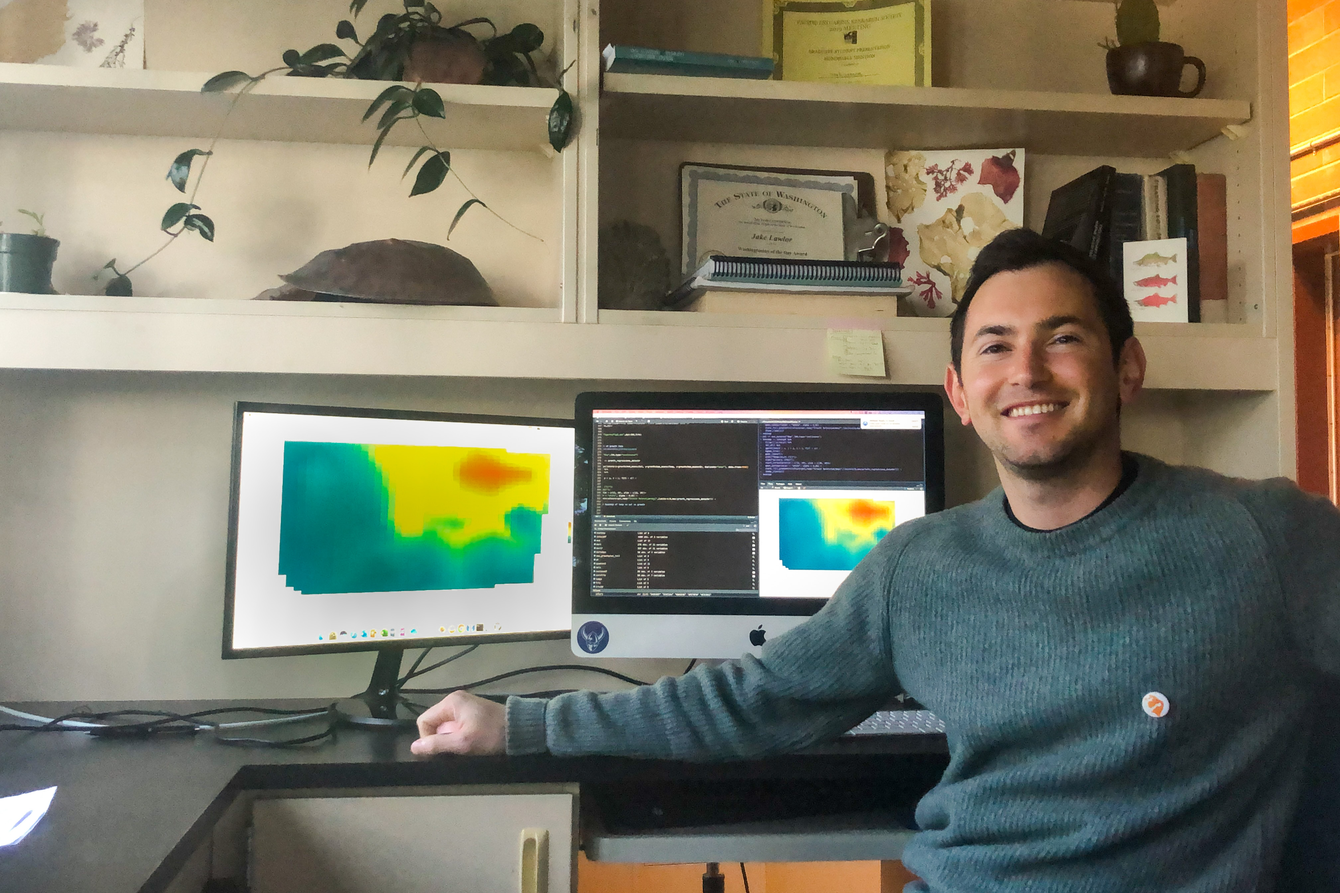
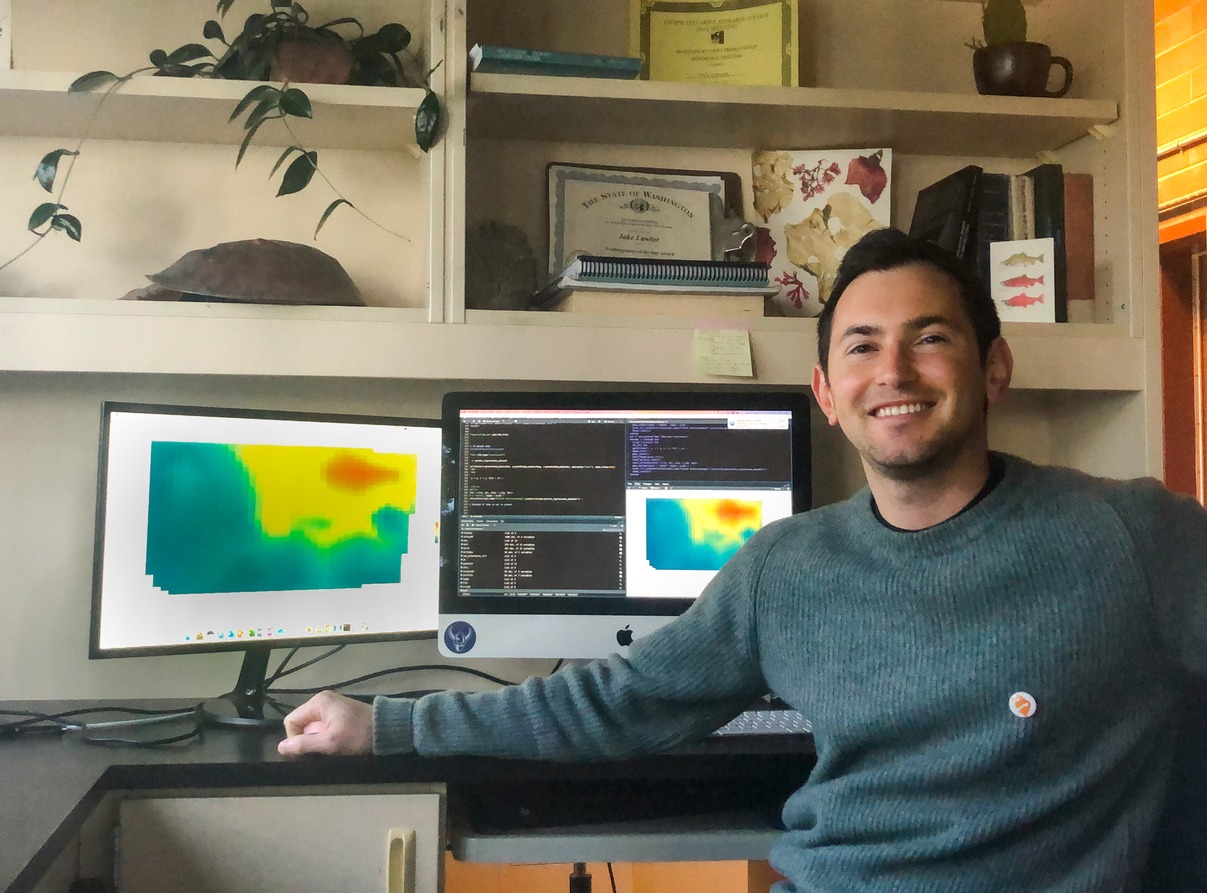
resize lab image

diff --git a/css/custom.min.css b/css/custom.min.css
@@ -1,1 +1,1 @@
-$font-heading:{{ $.Site.Params.heading_font | default "'Roboto', sans-serif" }}; $font-body:{{ $.Site.Params.body_font | default "'Roboto', sans-serif" }}; body{font-family:$font-body}h1,h2,h3,h4,h5,h6{font-family:$font-heading}body{font-family:montserrat,sans-serif;font-weight:400}h1,h2,h3,h5,h6{font-family:montserrat;font-weight:800}h2{font-size:26px;font-weight:800}p{font-family:montserrat,sans-serif;line-height:22px;font-size:16px;font-weight:200}body{background:#fff}ul{padding-left:0}ul li{list-style:none}a:hover{text-decoration:none;color:#444}a{font-weight:500;color:#02bdd5}hr{border:none;border-top:1px solid #ccc;margin:3em 0;width:100%}.slick-slide:focus{outline:0}.section-heading{text-align:center;margin-bottom:35px}.section-heading p{font-size:20px;font-weight:500;color:#727272;line-height:20px;font-variant:all-small-caps}.title{font-size:30px;line-height:1.1;font-weight:200;color:#333;text-transform:none;margin-bottom:15px}.subtitle{font-size:24px;font-weight:600;margin-bottom:.3em;margin-top:.4em;text-transform:none}.subtitle-des{color:#727272;font-size:14px;margin-bottom:1.25em;font-weight:300}.pages{padding:60px 0 40px}.moduler{padding:140px 0}.social-share li{display:inline-block;margin:3px 1px}.social-share a{font-size:20px;color:#fff;background:#02bdd5;padding:4px 10px;display:inline-block}.fancybox-close{background:url(../images/icons/close.png)no-repeat;height:50px;right:0;top:0;width:50px}.fancybox-next span{background:url(../images/icons/right.png)no-repeat 50% #009ee3;height:50px;width:50px;right:0}.fancybox-prev span{background:url(../images/icons/left.png)no-repeat 50% #009ee3;height:50px;width:50px;left:0}.fancybox-title{padding:15px 8px}.fancybox-title h3{font-size:15px;margin:0}.global-page-header{background-attachment:fixed;background-size:cover;padding:105px 0 20px;position:relative;background:#02bdd5;color:#fff}.global-page-header h2{font-size:42px;font-weight:100;color:#fff;text-transform:none}.global-page-header .breadcrumb{background:0 0;font-size:16px;padding:8px 0;display:block}.global-page-header .breadcrumb .active,.global-page-header .breadcrumb li a{color:#fff}.global-page-header .block{position:relative;z-index:9;text-align:center}.works-fit{padding:40px 0}.works-fit figure .buttons{left:14%}.about-page .container{max-width:75%}.about-page{padding:40px 0}.about-page .block h3{margin-top:0}.about-page .block p{color:#727272;font-weight:300;font-size:.9em;line-height:1.5}.about-page .block p{color:#727272;font-weight:300;font-size:.95em}.top-bar{position:fixed;top:0;width:100%;background:#fff;color:#fff;transition:all .2s ease-out 0s;padding:15px 0;box-shadow:0 0 3px 0 rgba(0,0,0,.1);border-bottom:1px solid #dedede;z-index:10}.top-bar.animated-header{padding:20px 0;background:#fff;box-shadow:none}.navbar{border:0;border-radius:0;margin-bottom:0;padding:0}.navbar.bg-light{background:#fff!important}.navbar .nav-item .nav-link{color:#444!important;font-size:14px;font-weight:800;transition:.3s all;text-transform:none;padding:5px 15px;display:block}.navbar .nav-item .nav-link:hover{color:#02bdd5!important}.navbar .nav-item:last-child .nav-link{padding-right:0}.navbar .nav-icon .nav-link{font-family:FontAwesome;font-style:normal;color:#444!important;font-size:14px;font-weight:500;transition:.3s all;padding:5px 15px;display:block}.navbar .nav-icon li a{font-size:22px;color:#444}.navbar .nav-icon .nav-link:hover{color:#02bdd5!important}.navbar .site-title{font-weight:200;color:#02bdd5;font-family:Montserrat;font-size:1.5em}.navbar .site-title:hover{color:#444!important}.dropdown-menu{background:#222;border:0;border-radius:0;padding:15px;box-shadow:none;display:block;opacity:0;z-index:1;visibility:hidden;transform:scale(0.8);transition:visibility 500ms,opacity 500ms,transform 500ms cubic-bezier(0.43,0.26,0.11,0.99)}@media(max-width:991px){.dropdown-menu{display:none;opacity:unset;visibility:unset;transform:scale(1)}}.dropdown-item{color:#fff;display:block;font-size:14px;font-weight:500;line-height:normal;text-decoration:none;padding:8px 0;transition:.3s all}.dropdown-item:not(:last-child){border-bottom:1px solid rgba(0,0,0,.1)}.dropdown-item:hover{color:#02bdd5!important;background:0 0}.dropdown:hover .dropdown-menu{opacity:1;visibility:visible;transform:scale(1)}#hero-area{background-repeat:no-repeat;background-position:50%;background-size:cover;background-attachment:fixed;padding:230px 0;color:#fff;box-shadow:0 0 8px rgba(0,0,0,.3);position:relative}#hero-area:before{content:'';z-index:9;background:rgba(255,255,255,.78);position:absolute;top:0;left:0;right:0;bottom:0}#hero-area .block{position:relative;z-index:9}#hero-area h1{font-family:montserrat;font-size:42px;line-height:46px;color:#333;font-weight:400;margin-bottom:15px;text-transform:none}#hero-area h2{font-size:24px;font-weight:200;margin-bottom:38px;line-height:28px;text-transform:lowercase;color:#666;font-family:raleway;margin-top:10px}#hero-area .btn{background:#414141;border:none;color:#fff;padding:20px 35px;margin-top:30px;font-size:16px;font-size:13px;line-height:1em;text-transform:none;letter-spacing:normal;border-radius:0}#call-to-action{background:#f18e80;background-size:cover;background-attachment:fixed;padding:80px 0;text-align:center;position:relative;color:#fff}#call-to-action .block{position:relative;z-index:9;color:#fff}#call-to-action .block h2{margin-bottom:15px;color:#fff;font-weight:200}#call-to-action .block p{font-size:15px;font-weight:300;font-family:roboto,sans-serif;margin-top:20px}#call-to-action .block .btn-contact{background:#fff;border:2px solid #fff;color:#02bdd5;padding:15px 34px;margin-top:20px;font-size:12px;letter-spacing:2px;text-transform:none;border-radius:0;transition:all linear .2s}#call-to-action .block .btn-contact i{margin-right:10px}#call-to-action .block .btn-contact:hover{color:#fff;background:#02bdd5}#about{padding:110px 0}#about .block{padding:0}#about .block h2{font-size:24px;font-weight:600;margin-bottom:30px;text-transform:none}#about .block p{color:#727272;font-size:16px;line-height:28px;margin-bottom:35px;font-weight:200}#about .block img{max-width:100%}img{max-width:100%}.about-feature .block{color:#fff;padding:75px 55px;float:left}.about-feature .block p{font-weight:300}.about-feature .about-feature-1{background:#02bdd5;width:100%;height:100%}.about-feature .about-feature-2{background:#00b0c7;height:100%;width:100%}.about-feature .about-feature-3{background:#00a6bb;height:100%;width:100%}.works{padding:50px 0;background:#fcfcfc}.works .block{position:relative;z-index:99}.works .block:hover .img-overly .overly{opacity:1}.works .block h4{padding:20px 15px;margin-top:0;color:#666}.works .block .img-overly{position:relative;background:rgba(0,0,0,.85)}.works .block .img-overly img{border-radius:0}.works .block .img-overly .overly{background:rgba(57,181,74,.9);position:absolute;top:0;right:0;left:0;bottom:0;opacity:0;transition:.3s all}.works .block .img-overly .overly a{position:absolute;top:45%;left:22%}.works .block .img-overly .overly a i{font-size:30px;color:#fff}figure{background:#fff;margin-bottom:45px;box-shadow:0 2px 5px 0 rgba(0,0,0,.04),0 2px 10px 0 rgba(0,0,0,.06)}figure .img-wrapper{position:relative;overflow:hidden}figure img{transform:scale3d(1,1,1);transition:transform 400ms}figure:hover img{transform:scale3d(1.2,1.2,1)}figure:hover .overlay{opacity:1}figure:hover .overlay .buttons a{transform:scale3d(1,1,1)}figure .overlay{position:absolute;top:0;left:0;right:0;bottom:0;padding:10px;text-align:center;background:rgba(0,0,0,.7);opacity:0;transition:opacity 400ms}figure .overlay a{display:inline-block;color:#fff;padding:10px 23px;line-height:1;border:1px solid #fff;border-radius:0;margin:4px;transform:scale3d(0,0,0);transition:all 400ms}figure .overlay a:hover{text-decoration:none}figure .overlay:hover a{transform:scale3d(1,1,1)}figure .buttons{margin-top:40%;text-align:center;transform:translateY(-50%);display:inline-block}figure .buttons a:hover{background:#02bdd5;border-color:#02bdd5}figure .buttons a:focus{text-decoration:none}figure figcaption{padding:20px 25px;margin-top:0;color:#666}figure figcaption h4{margin:0}figure figcaption h4 a{color:#02bdd5}figure figcaption p{font-size:14px;margin-bottom:0;margin-top:5px}#feature{padding:80px 0}#feature .media{margin:0 0 70px}#feature .media .media-left{padding-right:25px}#feature h3{color:#222;font-size:18px;text-transform:none;text-align:center;margin-bottom:20px;margin:0 0 15px;font-weight:400}#feature p{line-height:25px;font-size:14px;color:#777}#feature .icon{text-decoration:none;color:#fff;background-color:#02bdd5;height:100px;text-align:center;width:100px;font-size:50px;line-height:100px;overflow:hidden;border-radius:50%;-webkit-border-radius:50%;-moz-border-radius:50%;-ms-border-radius:50%;-o-border-radius:50%;text-shadow:#00a4ba 1px 1px,#00a4ba 2px 2px,#00a4ba 3px 3px,#00a4ba 4px 4px,#00a4ba 5px 5px,#00a4ba 6px 6px,#00a4ba 7px 7px,#00a4ba 8px 8px,#00a4ba 9px 9px,#00a4ba 10px 10px,#00a4ba 11px 11px,#00a4ba 12px 12px,#00a4ba 13px 13px,#00a4ba 14px 14px,#00a4ba 15px 15px,#00a4ba 16px 16px,#00a4ba 17px 17px,#00a4ba 18px 18px,#00a4ba 19px 19px,#00a4ba 20px 20px,#00a4ba 21px 21px,#00a4ba 22px 22px,#00a4ba 23px 23px,#00a4ba 24px 24px,#00a4ba 25px 25px,#00a4ba 26px 26px,#00a4ba 27px 27px,#00a4ba 28px 28px,#00a4ba 29px 29px,#00a4ba 30px 30px,#00a4ba 31px 31px,#00a4ba 32px 32px,#00a4ba 33px 33px,#00a4ba 34px 34px,#00a4ba 35px 35px,#00a4ba 36px 36px,#00a4ba 37px 37px,#00a4ba 38px 38px,#00a4ba 39px 39px,#00a4ba 40px 40px,#00a4ba 41px 41px,#00a4ba 42px 42px,#00a4ba 43px 43px,#00a4ba 44px 44px,#00a4ba 45px 45px,#00a4ba 46px 46px,#00a4ba 47px 47px,#00a4ba 48px 48px,#00a4ba 49px 49px,#00a4ba 50px 50px,#00a4ba 51px 51px,#00a4ba 52px 52px,#00a4ba 53px 53px,#00a4ba 54px 54px,#00a4ba 55px 55px,#00a4ba 56px 56px,#00a4ba 57px 57px,#00a4ba 58px 58px,#00a4ba 59px 59px,#00a4ba 60px 60px,#00a4ba 61px 61px,#00a4ba 62px 62px,#00a4ba 63px 63px,#00a4ba 64px 64px,#00a4ba 65px 65px,#00a4ba 66px 66px,#00a4ba 67px 67px,#00a4ba 68px 68px,#00a4ba 69px 69px,#00a4ba 70px 70px,#00a4ba 71px 71px,#00a4ba 72px 72px,#00a4ba 73px 73px,#00a4ba 74px 74px,#00a4ba 75px 75px,#00a4ba 76px 76px,#00a4ba 77px 77px,#00a4ba 78px 78px,#00a4ba 79px 79px,#00a4ba 80px 80px,#00a4ba 81px 81px,#00a4ba 82px 82px,#00a4ba 83px 83px,#00a4ba 84px 84px,#00a4ba 85px 85px,#00a4ba 86px 86px,#00a4ba 87px 87px,#00a4ba 88px 88px,#00a4ba 89px 89px,#00a4ba 90px 90px,#00a4ba 91px 91px,#00a4ba 92px 92px,#00a4ba 93px 93px,#00a4ba 94px 94px,#00a4ba 95px 95px,#00a4ba 96px 96px,#00a4ba 97px 97px,#00a4ba 98px 98px,#00a4ba 99px 99px,#00a4ba 100px 100px}.wrapper_404 h1{font-size:200px;color:#02bdd5;line-height:1}.wrapper_404 h2{font-size:50px;margin-top:0}.wrapper_404 .btn-home{background:#414141;border:none;color:#fff;padding:20px 35px;margin-top:10px;font-size:16px;font-size:13px;line-height:1em;text-transform:none;letter-spacing:normal;border-radius:0;transition:all linear .2s}#blog-full-width{padding:40px 0 80px}article{padding:30px 0}.blog-content h2{font-family:roboto,sans-serif}.blog-content h2 a{color:#444;font-weight:400;font-size:30px}.blog-content .blog-meta{color:#9a9a9a;font-weight:300;margin-bottom:25px}.blog-content .blog-meta span:after{content:'/';padding:0 3px 0 6px}.blog-content .blog-meta a{color:#acacac}.blog-content .blog-meta p{margin-top:20px}.blog-content .btn-details{color:#02bdd5;padding:0;background:#02bdd5;color:#fff;padding:8px 18px;border-radius:0;margin-top:15px;border:1px solid #fff;box-shadow:0 0 0 1px #02bdd5}.blog-post-image{margin-top:30px;margin-bottom:20px}.sidebar{padding-top:60px}.sidebar .widget{margin-bottom:40px;padding:15px;border:1px solid #dedede}.sidebar .widget h3{margin-top:8px}.sidebar .search input.form-control{border-right:0;border-radius:0;box-shadow:inset 0 0 0 rgba(0,0,0,.075)}.sidebar .search button{border-left:0}.sidebar .search button:hover{background:0 0}.sidebar .author .author-img img{width:90px;border-radius:100%;margin-top:-40px;border:3px solid #fff}.sidebar .author .author-bio p{font-size:14px;color:#888}.sidebar .categories ul li{border-bottom:1px solid #f0f0f0;padding:10px 0;list-style:none}.sidebar .categories ul li span.badge{float:right;background:0 0;color:#444;border:1px solid #dedede;border-radius:0}.sidebar .categories ul li a{color:#555}.sidebar .categories ul li:last-child{border-bottom:none}.sidebar .recent-post ul li{margin:20px 0}.sidebar .recent-post ul li a{color:#555;font-size:15px}.sidebar .recent-post ul li a:hover{color:#02bdd5}.sidebar .recent-post time{font-weight:300;color:#999;font-size:12px}#funding{padding:0 0 60px}.funding-logo-slider{display:flex;justify-content:center}#funding .funding-logo-box{width:210px;border:solid 8px #fff;height:90px;background-color:#eae9ec;display:flex;padding:5px 10px;align-items:center}#funding .subtitle-des{color:#727272;font-size:14px;margin-bottom:.25em;font-weight:300}#contact .contactinfo-logo-box{width:300px;border:solid 8px #fff;height:175px;background-color:#f7f7f7;padding:5px 10px;align-items:center;text-align:center}.contactinfo-logo-slider{display:flex;justify-content:center}#contact .subtitle-des{color:#727272;font-size:14px;margin-bottom:.25em;font-weight:300}#contact i{font-size:45px;color:#02bdd5}#contact .contactinfo{text-align:center;background:#f7f7f7;padding:20px 0 40px;margin-bottom:20px}.contactinfo-logo-slider h5{font-size:15px;line-height:1.4}.slick-initialized .slick-slide{display:flex}.img-fluid.mx-2{padding-bottom:0}.ml-2,.mx-2{margin-right:0!important;margin-left:0!important}#contact-section{padding:90px 0}#contact-section .contact-form{margin-top:42px}#contact-section .contact-form .btn-send{color:#fff;outline:none;background:#02bdd5;transition:all linear .2s;border-color:#02bdd5;border-radius:0}#contact-section input{display:block;height:40px;padding:6px 12px;font-size:13px;line-height:1.428571429;background-color:#fff;background-image:none;border:1px solid #ccc;border-radius:4px;box-shadow:inset 0 1px 1px rgba(0,0,0,.075);transition:border-color ease-in-out .15s,box-shadow ease-in-out .15s;border-radius:1px;border:1px solid rgba(111,121,122,.3);box-shadow:none;-webkit-box-shadow:none}#contact-section textarea{display:block;border-radius:0;width:100%;padding:6px 12px;font-size:14px;line-height:1.42857143;color:#555;background-color:#fff;background-image:none;border:1px solid #ccc;box-shadow:none;transition:border-color ease-in-out .15s,box-shadow ease-in-out .15s}#contact-section .address,#contact-section .email,#contact-section .phone{text-align:center;background:#f7f7f7;padding:20px 0 40px;margin-bottom:20px}#contact-section .address i,#contact-section .email i,#contact-section .phone i{font-size:45px;color:#02bdd5}#contact-section .address h5,#contact-section .email h5,#contact-section .phone h5{font-size:16px;line-height:1.4}#contact-section .address-details{padding-top:70px}#map-canvas{width:100%;height:350px;background-color:#ccc}.error{padding:10px;color:#d8000c;border-radius:2px;font-size:14px;background-color:#ffbaba}.success{background-color:#6cb670;border-radius:2px;color:#fff;font-size:14px;padding:10px}#error,#success{display:none;margin-bottom:10px}.gallery{padding:100px}.gallery figure .buttons{left:40%}.portfolio-meta span{margin:5px 10px;font-weight:300}.portfolio-meta span a{color:#fff}.single-post{padding:80px 0 20px}.single-post .post-content{padding:40px 0}.post-content blockquote p{padding:10px 20px;margin:0 0 20px;font-size:17.5px;border-:5px solid #eee}.single-post .post-content ol li,.single-post .post-content ul li{color:#666}.single-post .media{border:1px solid #dedede;padding:30px 20px}.single-post .media .media-body a{color:#02bdd5;font-size:12px}.single-post .media .media{border:none}.single-post .comments{margin-top:40px}.single-post .post-comment{margin-top:40px}.single-post .post-comment h3{margin-bottom:15px}.single-post .post-comment .form-control{box-shadow:none;border-radius:0}.single-post .post-comment .btn-send{background:#02bdd5;color:#fff;border-radius:0}.work-single{padding:100px 0 20px}.work-single h3{font-size:30px;margin-bottom:25px}.work-single-image{margin-bottom:35px}.work-single-content p{margin-bottom:30px;font-size:16px}.work-single-content a{color:#02bdd5;font-size:16px;line-height:28px;margin-bottom:35px;font-weight:bolder}.work-single-content a:hover{text-decoration:none;color:#0190b5}.work-single blockquote{margin-bottom:30px;padding:30px 25px;background:#eae9ec;color:#848484}.work-single pre{display:block;font-size:87.5%;color:#212529;background-color:#eae9ec}.work-single pre code{font-size:87.5%;color:#212529;background-color:#eae9ec}.work-single blockquote p{margin-bottom:0}.work-single p code{color:#212529;background-color:#eae9ec}.work-single-sidebar{background:#eae9ec;position:-webkit-sticky;position:sticky;top:100px;padding:30px 25px}.work-single-sidebar h5{margin-bottom:8px}.work-single-sidebar h6{margin-bottom:20px}.btn-work{color:#fff;background:#02bdd5;border-radius:0}#product-showcase-banner{padding-top:160px}#product-showcase-banner .block{padding:20px 0 20px 50px}#product-showcase-banner .block h2{font-size:40px;color:#02bdd5;margin-bottom:20px;margin-top:0}#product-showcase-banner .block p{color:#666;line-height:25px}#product-showcase-banner .block .buttons{margin-top:25px}#product-showcase-banner .block .buttons .btn{color:#fff;border:none;padding:12px 40px;transition:.2s all;letter-spacing:2px;font-size:15px}#product-showcase-banner .block .buttons .btn-demo{background:#5abd4f;margin-right:8px;border-bottom:3px solid #0190b5}#product-showcase-banner .block .buttons .btn-demo:hover{background:#0190b5}#product-showcase-banner .block .buttons .btn-buy{background:#00aeda;border-bottom:3px solid #0190b5}#product-showcase-banner .block .buttons .btn-buy:hover{background:#0190b5}#product-showcase-banner .block .buttons .btn-buy span{margin-right:8px;font-weight:700}#product-description{padding-top:80px}#product-description .block{height:400px;overflow:hidden;margin-top:35px;border-bottom:1px solid #dedede;padding-top:30px;position:relative;transform:translateZ(0);-webkit-transform:translateZ(0)}#product-description .block:hover img{transform:translateY(20px)}#product-description .block img{position:absolute;top:10px;left:0;transform:translateY(60px);transition:transform .35s cubic-bezier(0.645,0.045,0.355,1)}#product-description .block .content{width:60%;padding-top:70px}#product-description .block .content h3{font-size:32px;color:#5c5c5c}#product-description .block .content p{color:#787f8c;line-height:25px}#related-items{padding:60px 0 110px}#related-items .title{border-bottom:1px solid #dedede;padding:10px 0;margin:5px 15px 30px;text-align:left;color:#777}#related-items .product-details{margin-bottom:0}#related-items .block{position:relative;background:#fff;margin-bottom:45px;box-shadow:0 0 1px rgba(0,0,0,.14)}#related-items .block:hover .img-overly .overly{opacity:1}#related-items .block h4{padding:20px 15px;margin-top:0;color:#666}#related-items .block h4 span{float:right;color:#02bdd5}#related-items .block .img-overly{position:relative;background:rgba(0,0,0,.85)}#related-items .block .img-overly img{border-radius:0}#related-items .block .img-overly .overly{background:rgba(57,181,74,.9);position:absolute;top:0;right:0;left:0;bottom:0;opacity:0;transition:.3s all}#related-items .block .img-overly .overly a{position:absolute;top:45%;left:45%}#related-items .block .img-overly .overly a i{font-size:30px;color:#fff}.research-page .row{margin:0}.research-page .container{max-width:75%}.teaching-page .container{max-width:75%}.teaching-page .row{margin:0}.teaching-page .subtitle{font-family:raleway;font-weight:400;font-size:2em}.teaching-page .subtitle-des{color:#727272;font-size:16px;margin-bottom:1.25em;font-weight:200}.teaching-page .teaching-parts .block{text-align:left}.teaching-page .teaching-parts .block p{padding:1px;font-size:15px;color:#777;line-height:1.7;font-weight:400}.teaching-page .teaching-parts .block i{color:#02bdd5}.teaching-page .teaching-parts .block b{color:#02bdd5;font-weight:bolder}.teaching-page .block h4{font-family:Montserrat;font-weight:200;color:#02bdd5;font-size:1.6em}.teaching-page hr{border:none;border-top:2px solid #ccc;margin:3em 0;width:100%}.teaching-page img{padding-right:0;padding-left:0}.research-page .subtitle{font-family:Montserrat;font-weight:200;color:#02bdd5;font-size:1.6em}#team{margin:50px 0}.team-member{margin-top:30px}.team-member:hover .team-img img{opacity:.8}.team-member .team-img{position:relative;margin-bottom:20px}.team-member .team-img .team-pic{width:100%}.team-member .team_designation{font-size:13px}.team-member h3{color:#02bdd5;margin-bottom:0;font-size:20px}.team-member p{font-size:14px}.team-member .social-icons a{background:#02bdd5;color:#fff;padding:4px 8px;display:inline-block;font-size:15px}.team-member .social-icons .facebook{padding:4px 12px}#footer{background:#fff;padding:25px 0;color:#555}#footer .copyright{font-size:13px;margin-bottom:0}#footer .copyright a{color:#02bdd5}#footer .social{text-align:right;margin-bottom:0}#footer .social li{display:inline-block;margin-right:15px}#footer .social li a{font-size:22px;color:#02bdd5}.cd-headline.slide .cd-words-wrapper{font-family:raleway;font-weight:600;color:#02bdd5;text-transform:lowercase;font-size:.95em}ul.social-icons{height:auto;overflow:hidden;list-style:none!important;margin-bottom:10px}ul.social-icons li{float:none;display:inline-block;height:36px}#copyright a:hover,#copyright nav .menu li a:hover{color:#e4e4e4!important}#copyright a{text-decoration:none}#copyright a:hover{text-decoration:none}.widget li{display:inline-block;list-style-type:none;width:auto;border:2px solid #bbb;padding:.6em 1em;font-size:12px;line-height:1em;margin-bottom:0}
+$font-heading:{{ $.Site.Params.heading_font | default "'Roboto', sans-serif" }}; $font-body:{{ $.Site.Params.body_font | default "'Roboto', sans-serif" }}; body{font-family:$font-body}h1,h2,h3,h4,h5,h6{font-family:$font-heading}body{font-family:montserrat,sans-serif;font-weight:400}h1,h2,h3,h5,h6{font-family:montserrat;font-weight:800}h2{font-size:26px;font-weight:800}p{font-family:montserrat,sans-serif;line-height:22px;font-size:15px;font-weight:200}body{background:#fff}ul{padding-left:0}ul li{list-style:none}a:hover{text-decoration:none;color:#444}a{font-weight:500;color:#02bdd5}hr{border:none;border-top:1px solid #ccc;margin:3em 0;width:100%}.slick-slide:focus{outline:0}.section-heading{text-align:center;margin-bottom:35px}.section-heading p{font-size:20px;font-weight:500;color:#727272;line-height:20px;font-variant:all-small-caps}.title{font-size:30px;line-height:1.1;font-weight:200;color:#333;text-transform:none;margin-bottom:15px}.subtitle{font-size:24px;font-weight:600;margin-bottom:.3em;margin-top:.4em;text-transform:none}.subtitle-des{color:#727272;font-size:14px;margin-bottom:1.25em;font-weight:300}.pages{padding:60px 0 40px}.moduler{padding:140px 0}.social-share li{display:inline-block;margin:3px 1px}.social-share a{font-size:20px;color:#fff;background:#02bdd5;padding:4px 10px;display:inline-block}.fancybox-close{background:url(../images/icons/close.png)no-repeat;height:50px;right:0;top:0;width:50px}.fancybox-next span{background:url(../images/icons/right.png)no-repeat 50% #009ee3;height:50px;width:50px;right:0}.fancybox-prev span{background:url(../images/icons/left.png)no-repeat 50% #009ee3;height:50px;width:50px;left:0}.fancybox-title{padding:15px 8px}.fancybox-title h3{font-size:15px;margin:0}.global-page-header{background-attachment:fixed;background-size:cover;padding:105px 0 20px;position:relative;background:#02bdd5;color:#fff}.global-page-header h2{font-size:42px;font-weight:100;color:#fff;text-transform:none}.global-page-header .breadcrumb{background:0 0;font-size:16px;padding:8px 0;display:block}.global-page-header .breadcrumb .active,.global-page-header .breadcrumb li a{color:#fff}.global-page-header .block{position:relative;z-index:9;text-align:center}.works-fit{padding:40px 0}.works-fit figure .buttons{left:14%}.about-page .container{max-width:75%}.about-page{padding:40px 0}.about-page .block h3{margin-top:0}.about-page .block p{color:#727272;font-weight:300;font-size:15px;line-height:1.5}.top-bar{position:fixed;top:0;width:100%;background:#fff;color:#fff;transition:all .2s ease-out 0s;padding:15px 0;box-shadow:0 0 3px 0 rgba(0,0,0,.1);border-bottom:1px solid #dedede;z-index:10}.top-bar.animated-header{padding:20px 0;background:#fff;box-shadow:none}.navbar{border:0;border-radius:0;margin-bottom:0;padding:0}.navbar.bg-light{background:#fff!important}.navbar .nav-item .nav-link{color:#444!important;font-size:14px;font-weight:800;transition:.3s all;text-transform:none;padding:5px 15px;display:block}.navbar .nav-item .nav-link:hover{color:#02bdd5!important}.navbar .nav-item:last-child .nav-link{padding-right:0}.navbar .nav-icon .nav-link{font-family:FontAwesome;font-style:normal;color:#444!important;font-size:14px;font-weight:500;transition:.3s all;padding:5px 15px;display:block}.navbar .nav-icon li a{font-size:22px;color:#444}.navbar .nav-icon .nav-link:hover{color:#02bdd5!important}.navbar .site-title{font-weight:200;color:#02bdd5;font-family:Montserrat;font-size:1.5em}.navbar .site-title:hover{color:#444!important}.dropdown-menu{background:#222;border:0;border-radius:0;padding:15px;box-shadow:none;display:block;opacity:0;z-index:1;visibility:hidden;transform:scale(0.8);transition:visibility 500ms,opacity 500ms,transform 500ms cubic-bezier(0.43,0.26,0.11,0.99)}@media(max-width:991px){.dropdown-menu{display:none;opacity:unset;visibility:unset;transform:scale(1)}}.dropdown-item{color:#fff;display:block;font-size:14px;font-weight:500;line-height:normal;text-decoration:none;padding:8px 0;transition:.3s all}.dropdown-item:not(:last-child){border-bottom:1px solid rgba(0,0,0,.1)}.dropdown-item:hover{color:#02bdd5!important;background:0 0}.dropdown:hover .dropdown-menu{opacity:1;visibility:visible;transform:scale(1)}#hero-area{background-repeat:no-repeat;background-position:50%;background-size:cover;background-attachment:fixed;padding:230px 0;color:#fff;box-shadow:0 0 8px rgba(0,0,0,.3);position:relative}#hero-area:before{content:'';z-index:9;background:rgba(255,255,255,.78);position:absolute;top:0;left:0;right:0;bottom:0}#hero-area .block{position:relative;z-index:9}#hero-area h1{font-family:montserrat;font-size:42px;line-height:46px;color:#333;font-weight:400;margin-bottom:15px;text-transform:none}#hero-area h2{font-size:24px;font-weight:200;margin-bottom:38px;line-height:28px;text-transform:lowercase;color:#666;font-family:raleway;margin-top:10px}#hero-area .btn{background:#414141;border:none;color:#fff;padding:20px 35px;margin-top:30px;font-size:16px;font-size:13px;line-height:1em;text-transform:none;letter-spacing:normal;border-radius:0}#call-to-action{background:#f18e80;background-size:cover;background-attachment:fixed;padding:80px 0;text-align:center;position:relative;color:#fff}#call-to-action .block{position:relative;z-index:9;color:#fff}#call-to-action .block h2{margin-bottom:15px;color:#fff;font-weight:200}#call-to-action .block p{font-size:15px;font-weight:300;font-family:roboto,sans-serif;margin-top:20px}#call-to-action .block .btn-contact{background:#fff;border:2px solid #fff;color:#02bdd5;padding:15px 34px;margin-top:20px;font-size:12px;letter-spacing:2px;text-transform:none;border-radius:0;transition:all linear .2s}#call-to-action .block .btn-contact i{margin-right:10px}#call-to-action .block .btn-contact:hover{color:#fff;background:#02bdd5}#about{padding:110px 0}#about .block{padding:0}#about .block h2{font-size:24px;font-weight:600;margin-bottom:30px;text-transform:none}#about .block p{color:#727272;font-size:16px;line-height:28px;margin-bottom:35px;font-weight:200}#about .block img{max-width:100%}img{max-width:100%}.about-feature .block{color:#fff;padding:75px 55px;float:left}.about-feature .block p{font-weight:300}.about-feature .about-feature-1{background:#02bdd5;width:100%;height:100%}.about-feature .about-feature-2{background:#00b0c7;height:100%;width:100%}.about-feature .about-feature-3{background:#00a6bb;height:100%;width:100%}.works{padding:50px 0;background:#fcfcfc}.works .block{position:relative;z-index:99}.works .block:hover .img-overly .overly{opacity:1}.works .block h4{padding:20px 15px;margin-top:0;color:#666}.works .block .img-overly{position:relative;background:rgba(0,0,0,.85)}.works .block .img-overly img{border-radius:0}.works .block .img-overly .overly{background:rgba(57,181,74,.9);position:absolute;top:0;right:0;left:0;bottom:0;opacity:0;transition:.3s all}.works .block .img-overly .overly a{position:absolute;top:45%;left:22%}.works .block .img-overly .overly a i{font-size:30px;color:#fff}figure{background:#fff;margin-bottom:45px;box-shadow:0 2px 5px 0 rgba(0,0,0,.04),0 2px 10px 0 rgba(0,0,0,.06)}figure .img-wrapper{position:relative;overflow:hidden}figure img{transform:scale3d(1,1,1);transition:transform 400ms}figure:hover img{transform:scale3d(1.2,1.2,1)}figure:hover .overlay{opacity:1}figure:hover .overlay .buttons a{transform:scale3d(1,1,1)}figure .overlay{position:absolute;top:0;left:0;right:0;bottom:0;padding:10px;text-align:center;background:rgba(0,0,0,.7);opacity:0;transition:opacity 400ms}figure .overlay a{display:inline-block;color:#fff;padding:10px 23px;line-height:1;border:1px solid #fff;border-radius:0;margin:4px;transform:scale3d(0,0,0);transition:all 400ms}figure .overlay a:hover{text-decoration:none}figure .overlay:hover a{transform:scale3d(1,1,1)}figure .buttons{margin-top:40%;text-align:center;transform:translateY(-50%);display:inline-block}figure .buttons a:hover{background:#02bdd5;border-color:#02bdd5}figure .buttons a:focus{text-decoration:none}figure figcaption{padding:20px 25px;margin-top:0;color:#666}figure figcaption h4{margin:0}figure figcaption h4 a{color:#02bdd5}figure figcaption p{font-size:14px;margin-bottom:0;margin-top:5px}#feature{padding:80px 0}#feature .media{margin:0 0 70px}#feature .media .media-left{padding-right:25px}#feature h3{color:#222;font-size:18px;text-transform:none;text-align:center;margin-bottom:20px;margin:0 0 15px;font-weight:400}#feature p{line-height:25px;font-size:14px;color:#777}#feature .icon{text-decoration:none;color:#fff;background-color:#02bdd5;height:100px;text-align:center;width:100px;font-size:50px;line-height:100px;overflow:hidden;border-radius:50%;-webkit-border-radius:50%;-moz-border-radius:50%;-ms-border-radius:50%;-o-border-radius:50%;text-shadow:#00a4ba 1px 1px,#00a4ba 2px 2px,#00a4ba 3px 3px,#00a4ba 4px 4px,#00a4ba 5px 5px,#00a4ba 6px 6px,#00a4ba 7px 7px,#00a4ba 8px 8px,#00a4ba 9px 9px,#00a4ba 10px 10px,#00a4ba 11px 11px,#00a4ba 12px 12px,#00a4ba 13px 13px,#00a4ba 14px 14px,#00a4ba 15px 15px,#00a4ba 16px 16px,#00a4ba 17px 17px,#00a4ba 18px 18px,#00a4ba 19px 19px,#00a4ba 20px 20px,#00a4ba 21px 21px,#00a4ba 22px 22px,#00a4ba 23px 23px,#00a4ba 24px 24px,#00a4ba 25px 25px,#00a4ba 26px 26px,#00a4ba 27px 27px,#00a4ba 28px 28px,#00a4ba 29px 29px,#00a4ba 30px 30px,#00a4ba 31px 31px,#00a4ba 32px 32px,#00a4ba 33px 33px,#00a4ba 34px 34px,#00a4ba 35px 35px,#00a4ba 36px 36px,#00a4ba 37px 37px,#00a4ba 38px 38px,#00a4ba 39px 39px,#00a4ba 40px 40px,#00a4ba 41px 41px,#00a4ba 42px 42px,#00a4ba 43px 43px,#00a4ba 44px 44px,#00a4ba 45px 45px,#00a4ba 46px 46px,#00a4ba 47px 47px,#00a4ba 48px 48px,#00a4ba 49px 49px,#00a4ba 50px 50px,#00a4ba 51px 51px,#00a4ba 52px 52px,#00a4ba 53px 53px,#00a4ba 54px 54px,#00a4ba 55px 55px,#00a4ba 56px 56px,#00a4ba 57px 57px,#00a4ba 58px 58px,#00a4ba 59px 59px,#00a4ba 60px 60px,#00a4ba 61px 61px,#00a4ba 62px 62px,#00a4ba 63px 63px,#00a4ba 64px 64px,#00a4ba 65px 65px,#00a4ba 66px 66px,#00a4ba 67px 67px,#00a4ba 68px 68px,#00a4ba 69px 69px,#00a4ba 70px 70px,#00a4ba 71px 71px,#00a4ba 72px 72px,#00a4ba 73px 73px,#00a4ba 74px 74px,#00a4ba 75px 75px,#00a4ba 76px 76px,#00a4ba 77px 77px,#00a4ba 78px 78px,#00a4ba 79px 79px,#00a4ba 80px 80px,#00a4ba 81px 81px,#00a4ba 82px 82px,#00a4ba 83px 83px,#00a4ba 84px 84px,#00a4ba 85px 85px,#00a4ba 86px 86px,#00a4ba 87px 87px,#00a4ba 88px 88px,#00a4ba 89px 89px,#00a4ba 90px 90px,#00a4ba 91px 91px,#00a4ba 92px 92px,#00a4ba 93px 93px,#00a4ba 94px 94px,#00a4ba 95px 95px,#00a4ba 96px 96px,#00a4ba 97px 97px,#00a4ba 98px 98px,#00a4ba 99px 99px,#00a4ba 100px 100px}.wrapper_404 h1{font-size:200px;color:#02bdd5;line-height:1}.wrapper_404 h2{font-size:50px;margin-top:0}.wrapper_404 .btn-home{background:#414141;border:none;color:#fff;padding:20px 35px;margin-top:10px;font-size:16px;font-size:13px;line-height:1em;text-transform:none;letter-spacing:normal;border-radius:0;transition:all linear .2s}#blog-full-width{padding:40px 0 80px}article{padding:30px 0}.blog-content h2{font-family:roboto,sans-serif}.blog-content h2 a{color:#444;font-weight:400;font-size:30px}.blog-content .blog-meta{color:#9a9a9a;font-weight:300;margin-bottom:25px}.blog-content .blog-meta span:after{content:'/';padding:0 3px 0 6px}.blog-content .blog-meta a{color:#acacac}.blog-content .blog-meta p{margin-top:20px}.blog-content .btn-details{color:#02bdd5;padding:0;background:#02bdd5;color:#fff;padding:8px 18px;border-radius:0;margin-top:15px;border:1px solid #fff;box-shadow:0 0 0 1px #02bdd5}.blog-post-image{margin-top:30px;margin-bottom:20px}.sidebar{padding-top:60px}.sidebar .widget{margin-bottom:40px;padding:15px;border:1px solid #dedede}.sidebar .widget h3{margin-top:8px}.sidebar .search input.form-control{border-right:0;border-radius:0;box-shadow:inset 0 0 0 rgba(0,0,0,.075)}.sidebar .search button{border-left:0}.sidebar .search button:hover{background:0 0}.sidebar .author .author-img img{width:90px;border-radius:100%;margin-top:-40px;border:3px solid #fff}.sidebar .author .author-bio p{font-size:14px;color:#888}.sidebar .categories ul li{border-bottom:1px solid #f0f0f0;padding:10px 0;list-style:none}.sidebar .categories ul li span.badge{float:right;background:0 0;color:#444;border:1px solid #dedede;border-radius:0}.sidebar .categories ul li a{color:#555}.sidebar .categories ul li:last-child{border-bottom:none}.sidebar .recent-post ul li{margin:20px 0}.sidebar .recent-post ul li a{color:#555;font-size:15px}.sidebar .recent-post ul li a:hover{color:#02bdd5}.sidebar .recent-post time{font-weight:300;color:#999;font-size:12px}#funding{padding:0 0 60px}.funding-logo-slider{display:flex;justify-content:center}#funding .funding-logo-box{width:210px;border:solid 8px #fff;height:90px;background-color:#eae9ec;display:flex;padding:5px 10px;align-items:center}#funding .subtitle-des{color:#727272;font-size:14px;margin-bottom:.25em;font-weight:300}#contact .contactinfo-logo-box{width:300px;border:solid 8px #fff;height:175px;background-color:#f7f7f7;padding:5px 10px;align-items:center;text-align:center}.contactinfo-logo-slider{display:flex;justify-content:center}#contact .subtitle-des{color:#727272;font-size:14px;margin-bottom:.25em;font-weight:300}#contact i{font-size:45px;color:#02bdd5}#contact .contactinfo{text-align:center;background:#f7f7f7;padding:20px 0 40px;margin-bottom:20px}.contactinfo-logo-slider h5{font-size:15px;line-height:1.4}.slick-initialized .slick-slide{display:flex}.img-fluid.mx-2{padding-bottom:0}.ml-2,.mx-2{margin-right:0!important;margin-left:0!important}#contact-section{padding:90px 0}#contact-section .contact-form{margin-top:42px}#contact-section .contact-form .btn-send{color:#fff;outline:none;background:#02bdd5;transition:all linear .2s;border-color:#02bdd5;border-radius:0}#contact-section input{display:block;height:40px;padding:6px 12px;font-size:13px;line-height:1.428571429;background-color:#fff;background-image:none;border:1px solid #ccc;border-radius:4px;box-shadow:inset 0 1px 1px rgba(0,0,0,.075);transition:border-color ease-in-out .15s,box-shadow ease-in-out .15s;border-radius:1px;border:1px solid rgba(111,121,122,.3);box-shadow:none;-webkit-box-shadow:none}#contact-section textarea{display:block;border-radius:0;width:100%;padding:6px 12px;font-size:14px;line-height:1.42857143;color:#555;background-color:#fff;background-image:none;border:1px solid #ccc;box-shadow:none;transition:border-color ease-in-out .15s,box-shadow ease-in-out .15s}#contact-section .address,#contact-section .email,#contact-section .phone{text-align:center;background:#f7f7f7;padding:20px 0 40px;margin-bottom:20px}#contact-section .address i,#contact-section .email i,#contact-section .phone i{font-size:45px;color:#02bdd5}#contact-section .address h5,#contact-section .email h5,#contact-section .phone h5{font-size:16px;line-height:1.4}#contact-section .address-details{padding-top:70px}#map-canvas{width:100%;height:350px;background-color:#ccc}.error{padding:10px;color:#d8000c;border-radius:2px;font-size:14px;background-color:#ffbaba}.success{background-color:#6cb670;border-radius:2px;color:#fff;font-size:14px;padding:10px}#error,#success{display:none;margin-bottom:10px}.gallery{padding:100px}.gallery figure .buttons{left:40%}.portfolio-meta span{margin:5px 10px;font-weight:300}.portfolio-meta span a{color:#fff}.single-post{padding:80px 0 20px}.single-post .post-content{padding:40px 0}.post-content blockquote p{padding:10px 20px;margin:0 0 20px;font-size:17.5px;border-:5px solid #eee}.single-post .post-content ol li,.single-post .post-content ul li{color:#666}.single-post .media{border:1px solid #dedede;padding:30px 20px}.single-post .media .media-body a{color:#02bdd5;font-size:12px}.single-post .media .media{border:none}.single-post .comments{margin-top:40px}.single-post .post-comment{margin-top:40px}.single-post .post-comment h3{margin-bottom:15px}.single-post .post-comment .form-control{box-shadow:none;border-radius:0}.single-post .post-comment .btn-send{background:#02bdd5;color:#fff;border-radius:0}.work-single{padding:100px 0 20px}.work-single h3{font-size:30px;margin-bottom:25px}.work-single-image{margin-bottom:35px}.work-single-content p{margin-bottom:30px;font-size:16px}.work-single-content a{color:#02bdd5;font-size:16px;line-height:28px;margin-bottom:35px;font-weight:bolder}.work-single-content a:hover{text-decoration:none;color:#0190b5}.work-single blockquote{margin-bottom:30px;padding:30px 25px;background:#eae9ec;color:#848484}.work-single pre{display:block;font-size:87.5%;color:#212529;background-color:#eae9ec}.work-single pre code{font-size:87.5%;color:#212529;background-color:#eae9ec}.work-single blockquote p{margin-bottom:0}.work-single p code{color:#212529;background-color:#eae9ec}.work-single-sidebar{background:#eae9ec;position:-webkit-sticky;position:sticky;top:100px;padding:30px 25px}.work-single-sidebar h5{margin-bottom:8px}.work-single-sidebar h6{margin-bottom:20px}.btn-work{color:#fff;background:#02bdd5;border-radius:0}#product-showcase-banner{padding-top:160px}#product-showcase-banner .block{padding:20px 0 20px 50px}#product-showcase-banner .block h2{font-size:40px;color:#02bdd5;margin-bottom:20px;margin-top:0}#product-showcase-banner .block p{color:#666;line-height:25px}#product-showcase-banner .block .buttons{margin-top:25px}#product-showcase-banner .block .buttons .btn{color:#fff;border:none;padding:12px 40px;transition:.2s all;letter-spacing:2px;font-size:15px}#product-showcase-banner .block .buttons .btn-demo{background:#5abd4f;margin-right:8px;border-bottom:3px solid #0190b5}#product-showcase-banner .block .buttons .btn-demo:hover{background:#0190b5}#product-showcase-banner .block .buttons .btn-buy{background:#00aeda;border-bottom:3px solid #0190b5}#product-showcase-banner .block .buttons .btn-buy:hover{background:#0190b5}#product-showcase-banner .block .buttons .btn-buy span{margin-right:8px;font-weight:700}#product-description{padding-top:80px}#product-description .block{height:400px;overflow:hidden;margin-top:35px;border-bottom:1px solid #dedede;padding-top:30px;position:relative;transform:translateZ(0);-webkit-transform:translateZ(0)}#product-description .block:hover img{transform:translateY(20px)}#product-description .block img{position:absolute;top:10px;left:0;transform:translateY(60px);transition:transform .35s cubic-bezier(0.645,0.045,0.355,1)}#product-description .block .content{width:60%;padding-top:70px}#product-description .block .content h3{font-size:32px;color:#5c5c5c}#product-description .block .content p{color:#787f8c;line-height:25px}#related-items{padding:60px 0 110px}#related-items .title{border-bottom:1px solid #dedede;padding:10px 0;margin:5px 15px 30px;text-align:left;color:#777}#related-items .product-details{margin-bottom:0}#related-items .block{position:relative;background:#fff;margin-bottom:45px;box-shadow:0 0 1px rgba(0,0,0,.14)}#related-items .block:hover .img-overly .overly{opacity:1}#related-items .block h4{padding:20px 15px;margin-top:0;color:#666}#related-items .block h4 span{float:right;color:#02bdd5}#related-items .block .img-overly{position:relative;background:rgba(0,0,0,.85)}#related-items .block .img-overly img{border-radius:0}#related-items .block .img-overly .overly{background:rgba(57,181,74,.9);position:absolute;top:0;right:0;left:0;bottom:0;opacity:0;transition:.3s all}#related-items .block .img-overly .overly a{position:absolute;top:45%;left:45%}#related-items .block .img-overly .overly a i{font-size:30px;color:#fff}.research-page .row{margin:0}.research-page .container{max-width:75%}.teaching-page .container{max-width:75%}.teaching-page .row{margin:0}.teaching-page .subtitle{font-family:raleway;font-weight:400;font-size:2em}.teaching-page .subtitle-des{color:#727272;font-size:16px;margin-bottom:1.25em;font-weight:200}.teaching-page .teaching-parts .block{text-align:left}.teaching-page .teaching-parts .block p{padding:1px;font-size:14px;color:#777;line-height:1.6;font-weight:300}.teaching-page .teaching-parts .block i{color:#02bdd5}.teaching-page .teaching-parts .block b{color:#02bdd5;font-weight:bolder}.teaching-page .block h4{font-family:Montserrat;font-weight:200;color:#02bdd5;font-size:1.6em}.teaching-page hr{border:none;border-top:2px solid #ccc;margin:3em 0;width:100%}.teaching-page img{padding-right:0;padding-left:0}.research-page .subtitle{font-family:Montserrat;font-weight:200;color:#02bdd5;font-size:1.6em}#team{margin:50px 0}.team-member{margin-top:30px}.team-member:hover .team-img img{opacity:.8}.team-member .team-img{position:relative;margin-bottom:20px}.team-member .team-img .team-pic{width:100%}.team-member .team_designation{font-size:13px}.team-member h3{color:#02bdd5;margin-bottom:0;font-size:20px}.team-member p{font-size:14px}.team-member .social-icons a{background:#02bdd5;color:#fff;padding:4px 8px;display:inline-block;font-size:15px}.team-member .social-icons .facebook{padding:4px 12px}#footer{background:#fff;padding:25px 0;color:#555}#footer .copyright{font-size:13px;margin-bottom:0}#footer .copyright a{color:#02bdd5}#footer .social{text-align:right;margin-bottom:0}#footer .social li{display:inline-block;margin-right:15px}#footer .social li a{font-size:22px;color:#02bdd5}.cd-headline.slide .cd-words-wrapper{font-family:raleway;font-weight:600;color:#02bdd5;text-transform:lowercase;font-size:.95em}ul.social-icons{height:auto;overflow:hidden;list-style:none!important;margin-bottom:10px}ul.social-icons li{float:none;display:inline-block;height:36px}#copyright a:hover,#copyright nav .menu li a:hover{color:#e4e4e4!important}#copyright a{text-decoration:none}#copyright a:hover{text-decoration:none}.widget li{display:inline-block;list-style-type:none;width:auto;border:2px solid #bbb;padding:.6em 1em;font-size:12px;line-height:1em;margin-bottom:0}

diff --git a/about/index.html b/about/index.html
@@ -168,7 +168,7 @@
 						data-wow-duration="500ms">hello!</h3>
 					
 					<p class="wow fadeInUp" data-wow-delay=".5s" data-wow-duration="500ms">
-						<br>My name is Jake. I'm a quantitative biogeographer, a data visualization enthusiast, an occasional outdoor guide, an enthusiastic teacher, and an okay karaoke singer when the moment feels right. I'm currently working on my PhD in the <a href="http://www.jennsunday.weebly.com" target="_blank">Sunday Lab</a> at McGill University where I study how climate change causes species to move around the world.
+						My name is Jake. I'm a quantitative biogeographer, a data visualization enthusiast, an occasional outdoor guide, an enthusiastic teacher, and an okay karaoke singer when the moment feels right. I'm currently working on my PhD in the <a href="http://www.jennsunday.weebly.com" target="_blank">Sunday Lab</a> at McGill University where I study how climate change causes species to move around the world.
 <br> <br>
 Not unlike the organisms I study, I too have shifted my range to cooler environments over the past decade. I am a native Texan and completed my BS in Environmental Science in Austin in 2015, then moved to Bellingham, Washington in 2017 to begin my MS in marine ecology in the <a href="https://wp.wwu.edu/arellanolab/people/shawn-m-arellano/" target="_blank">Arellano Lab</a>. I have now landed in Montréal, Québec where I am pursuing my PhD in Biology and trying not to freeze during the long Canadian winters.
 <br> <br>
